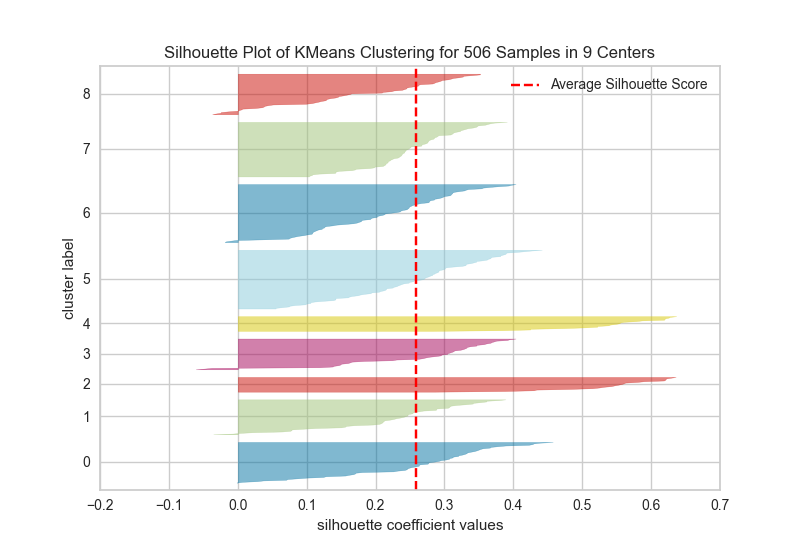
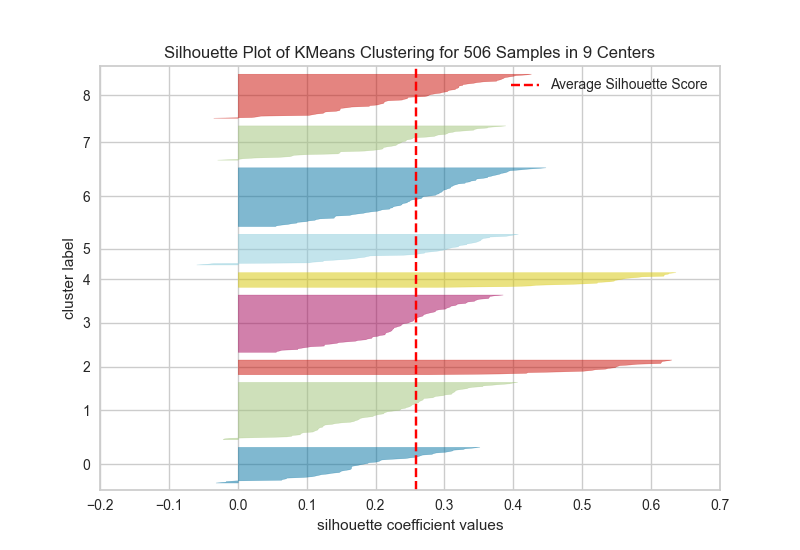
1d added

diff --git a/1d.py b/1d.py
@@ -1,6 +1,5 @@
 import pandas as pd
 import numpy as np
-import math
 import sklearn
 
 # import tensorflow
@@ -12,81 +11,29 @@ import matplotlib.cm as cm
 from yellowbrick.cluster import SilhouetteVisualizer
 import os
 from collections import Counter, defaultdict, OrderedDict
-from pprint import pprint
-
-# A’nın alanı done
-# A’nın genişlik/uzunluk oranı done
-# A’nın tipi (örn. ikon ya da metin) done
-# B’nin alanı done
-# B’nin genişlik/uzunluk oranı done
-# B’nin tipi (örn. ikon ya da metin) done
-# A ile B’nin merkezleri arasındaki çizginin boyu done
-# A ile B’nin merkezleri arasındaki çizginin açısı done
-
-
+from sklearn.cluster import DBSCAN
 dataPath = "./data/kodi-base.csv"
 dataOrg = pd.read_csv(dataPath)
 data = dataOrg.copy()
 data["x"] = data.apply(lambda row: (row.x1 + row.x2) / 2, axis=1)
 data["y"] = data.apply(lambda row: (row.y1 + row.y2) / 2, axis=1)
 data["w/h"] = data.apply(lambda row: row.width / row.height, axis=1)
-data["area"] = data.apply(lambda row: (row.x2 - row.x1) * (row.y2 - row.y1), axis=1)
-
-# data = data.drop(columns=["x1", "y1", "x2", "y2"])
-data2 = data
-
-data["key"] = 1
-data2["key"] = 1
-result = pd.merge(data, data2, on="key").drop("key", 1)
-result = result[result["_id_x"] < result["_id_y"]]
-
-result["center_diff"] = result.apply(
-    lambda row: math.sqrt(pow((row.x_x - row.x_y), 2) + pow((row.y_x - row.y_y), 2)),
-    axis=1,
-)
-result["center_angle"] = result.apply(
-    lambda row: np.rad2deg(np.arctan2((row.y_x - row.y_y), (row.x_x - row.x_y))), axis=1
-)
-
-pd.set_option("display.max_rows", result.shape[0]+1)
-
-result = result.drop(
-    columns=[
-        "x1_x",
-        "x2_x",
-        "y1_x",
-        "y2_x",
-        "width_x",
-        "height_x",
-        # "x_x",
-        # "y_x",
-        "x1_y",
-        "x2_y",
-        "y1_y",
-        "y2_y",
-        "width_y",
-        "height_y",
-        # "x_y",
-        # "y_y",
-        "w/h_x",
-        "area_x",
-        "w/h_y",
-        "area_y",
-    ]
-)
-
-# print(result)
+data["area"] = data.apply(lambda row: row.width * row.height, axis=1)
+data = data.drop(columns=["_id", "x1", "y1", "x2", "y2", "width", "height"])
+# print(dataOrg.loc[1, '_id'])
 # quit()
-numClustersStart = 3
-numClustersEnd = 4
+print(data)
+
+numClustersStart = 2
+numClustersEnd = 15
 step = 1
 tol = 1e-04
 maxIter = 300
 distortions = []
 
-data = result.copy()
-data = data.drop(columns=["_id_x", "_id_y"])
-
+clustering = DBSCAN(eps=400, min_samples=2).fit(data)
+print(clustering.labels_)
+quit()
 for n_clusters in range(numClustersStart, numClustersEnd, step):
     km = KMeans(
         n_clusters=n_clusters, init="k-means++", n_init=10, max_iter=maxIter, tol=tol
@@ -98,7 +45,7 @@ for n_clusters in range(numClustersStart, numClustersEnd, step):
     cluster_labels = km.predict(data)
     silhouette_avg = silhouette_score(data, cluster_labels)
 
-    opath = str(1)
+    opath = str(1) + "-1d"
     path = os.path.join("./", opath)
     if not os.path.exists(path):
         os.mkdir(path)
@@ -119,10 +66,8 @@ for n_clusters in range(numClustersStart, numClustersEnd, step):
     for i in range(n_clusters):
         dictionary[i] = []
     for i in range(len(cluster_labels)):
-        dictionary[cluster_labels[i]].append(
-            [int(result.iloc[i]["_id_x"]), int(result.iloc[i]["_id_y"])]
-        )
-    pprint(dictionary)
+        dictionary[cluster_labels[i]].append(dataOrg.loc[i, "_id"])
+    print(dictionary)
     print("------------------------------\n")
 
 
